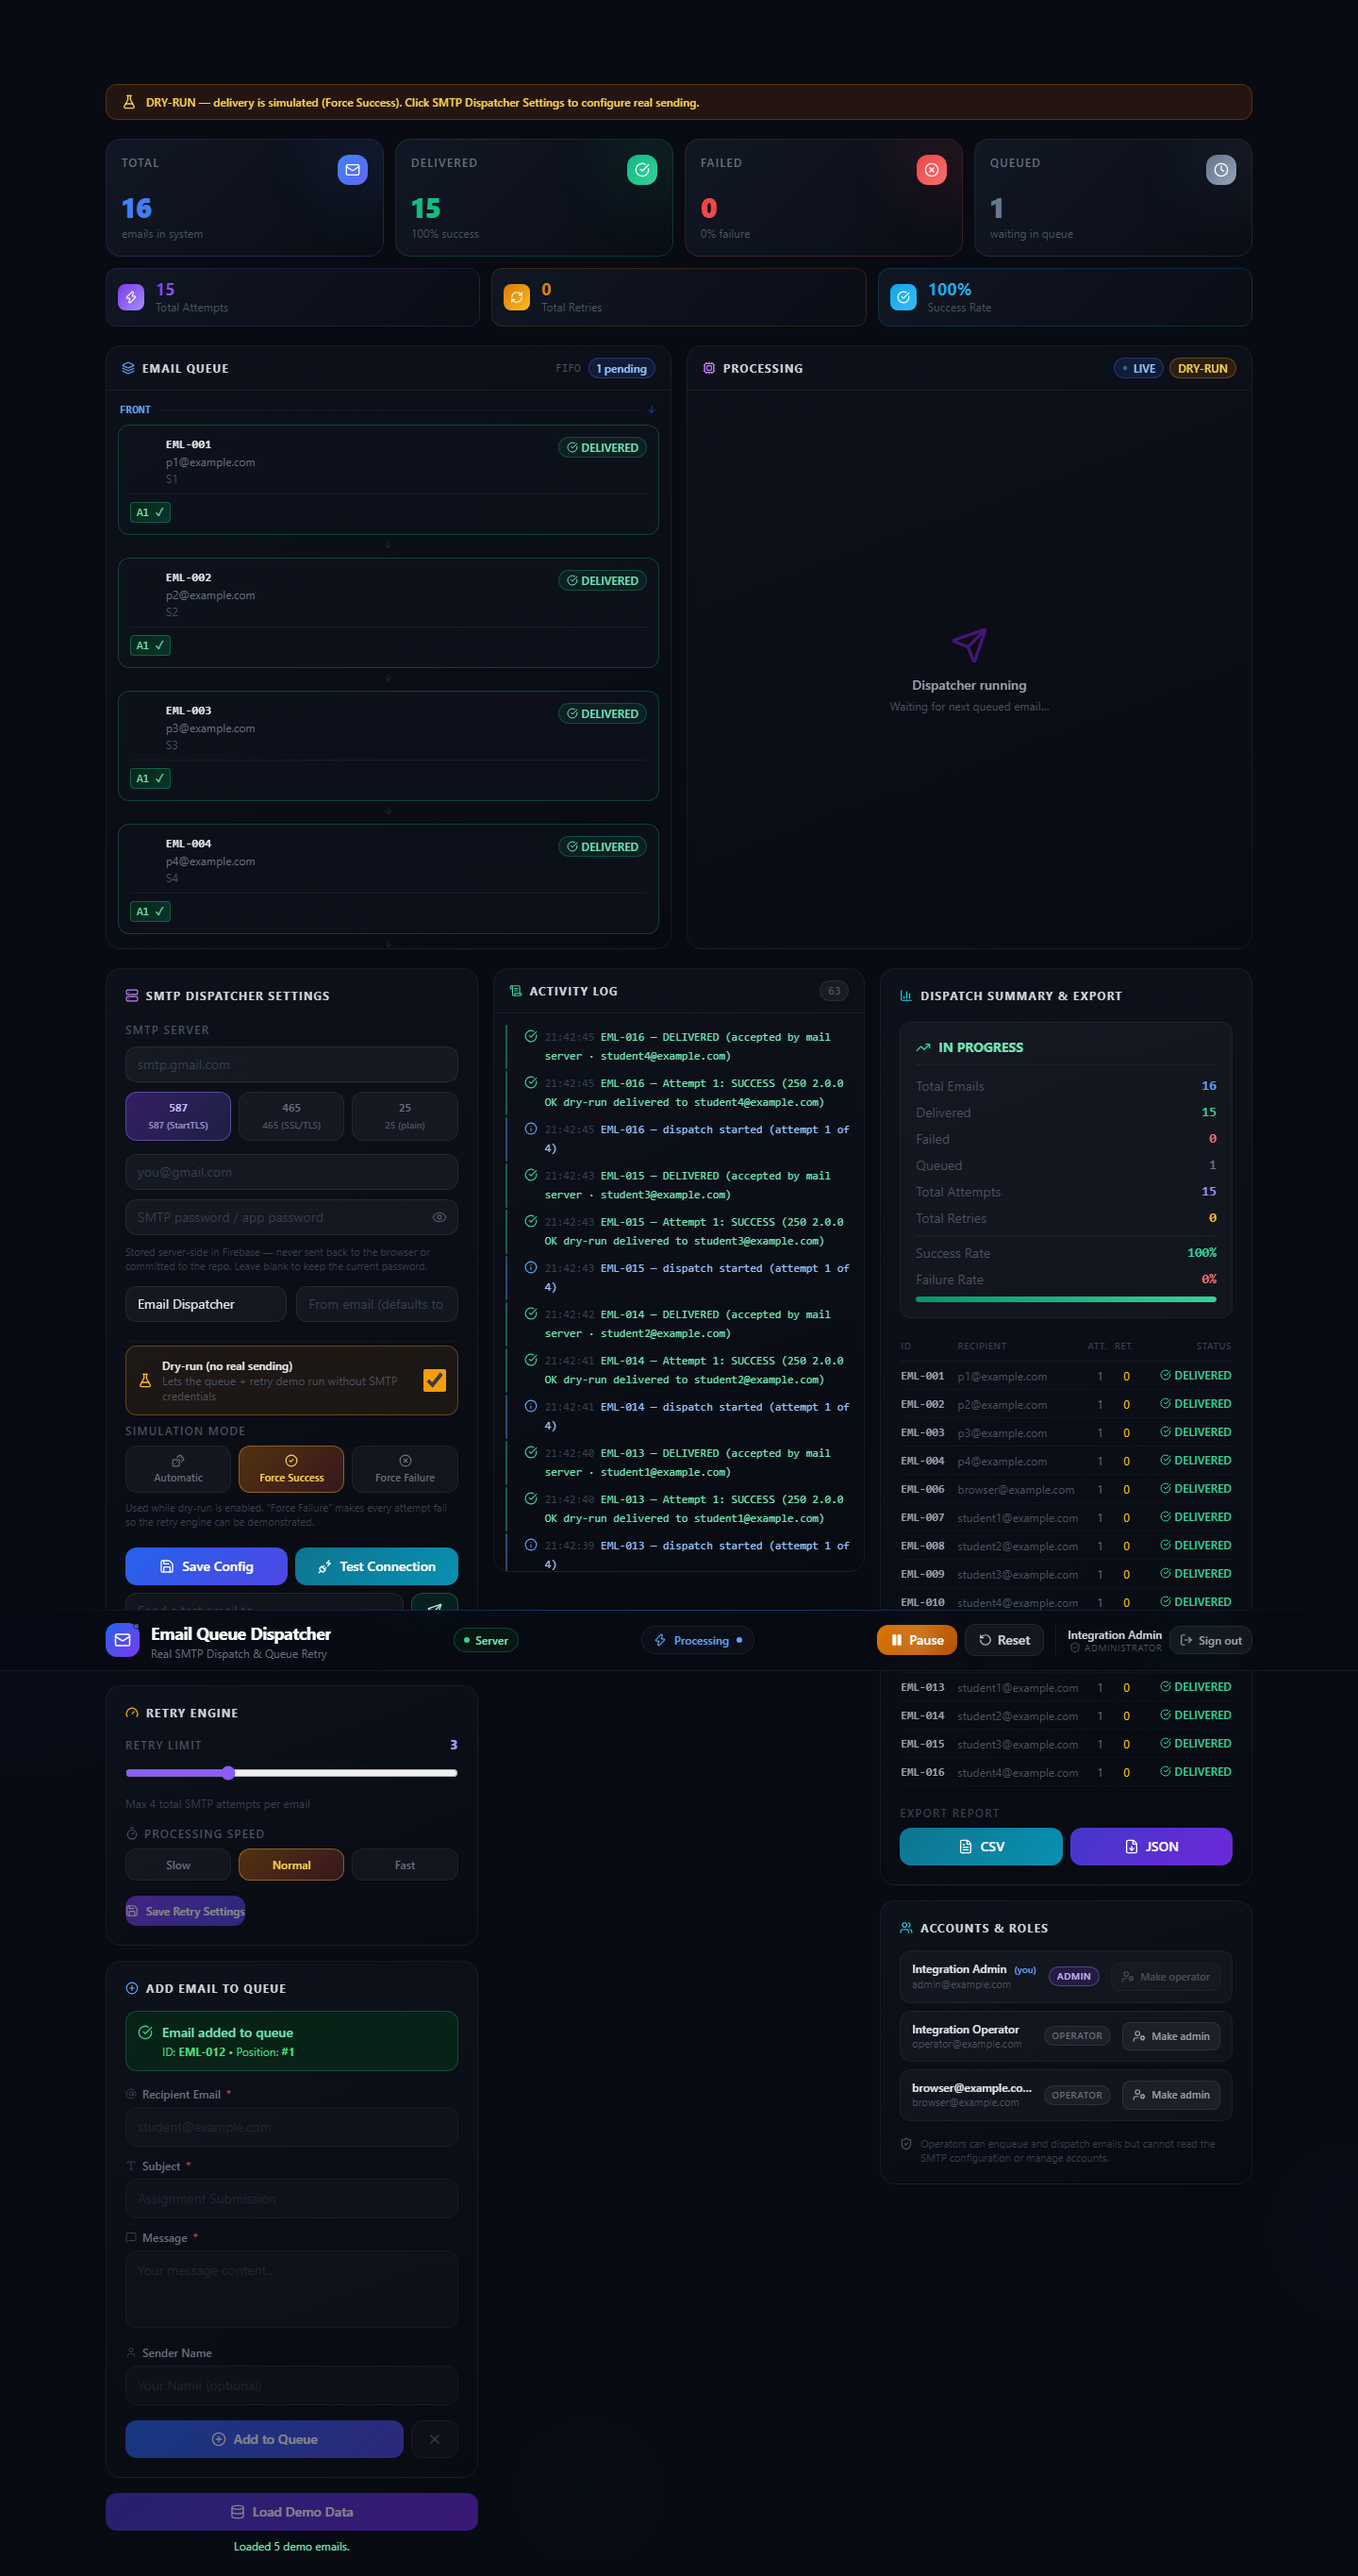
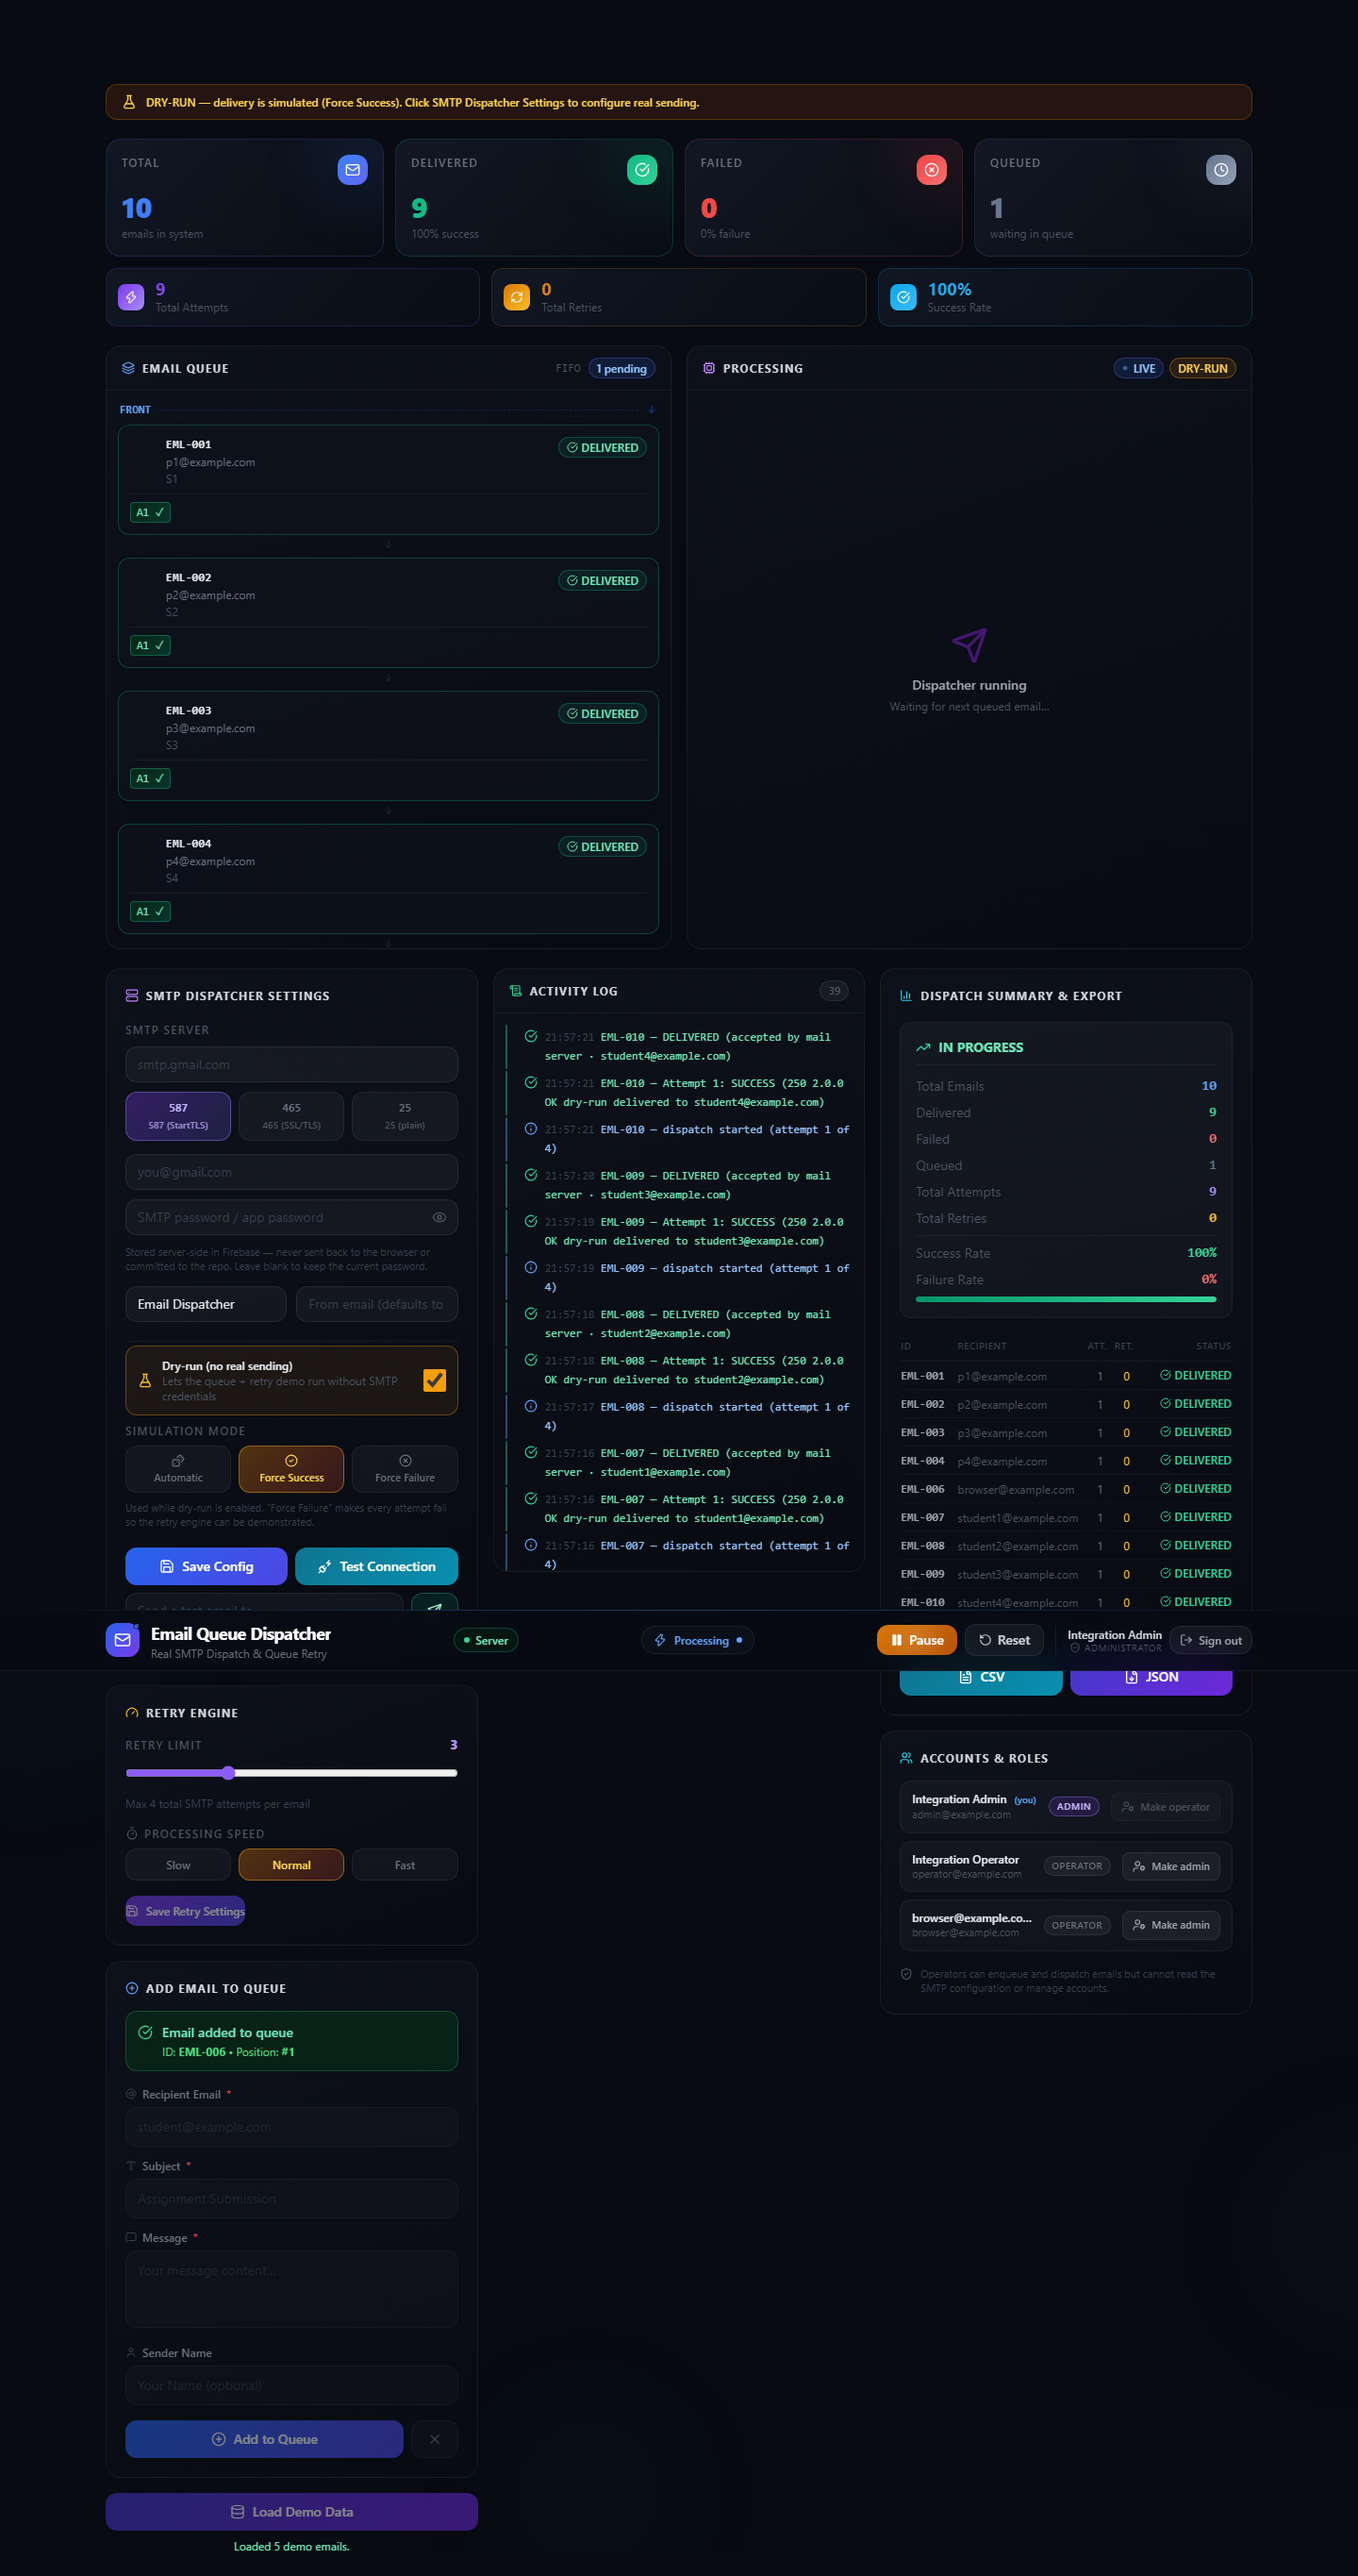
docs(security): use private vulnerability reporting instead of a published email
The repository already has GitHub's private vulnerability reporting enabled,
so the Security tab is the confidential channel. Publishing a personal
mailbox in a public repository re-introduces exactly the exposure this
repository was cleaned of.

Changed region(s): [[0.6562, 0.6227, 0.9062, 0.8407], [0.7812, 0.8095, 0.8125, 0.8407]]

diff --git a/SECURITY.md b/SECURITY.md
@@ -5,8 +5,12 @@
 **Please do not open a public issue for a security problem.**
 
 Report it privately through GitHub's *Report a vulnerability* button on the
-repository's **Security** tab, or by email to the maintainer
-(`REDACTED-EMAIL`). Please include:
+repository's **Security** tab. Private vulnerability reporting is enabled for
+this repository, so the report goes straight to the maintainers and stays
+confidential.
+
+If that is not an option for you, contact the maintainer through their
+[GitHub profile](https://github.com/IMTTY-ok). Please include:
 
 - what the issue is and which component is affected
 - how to reproduce it
